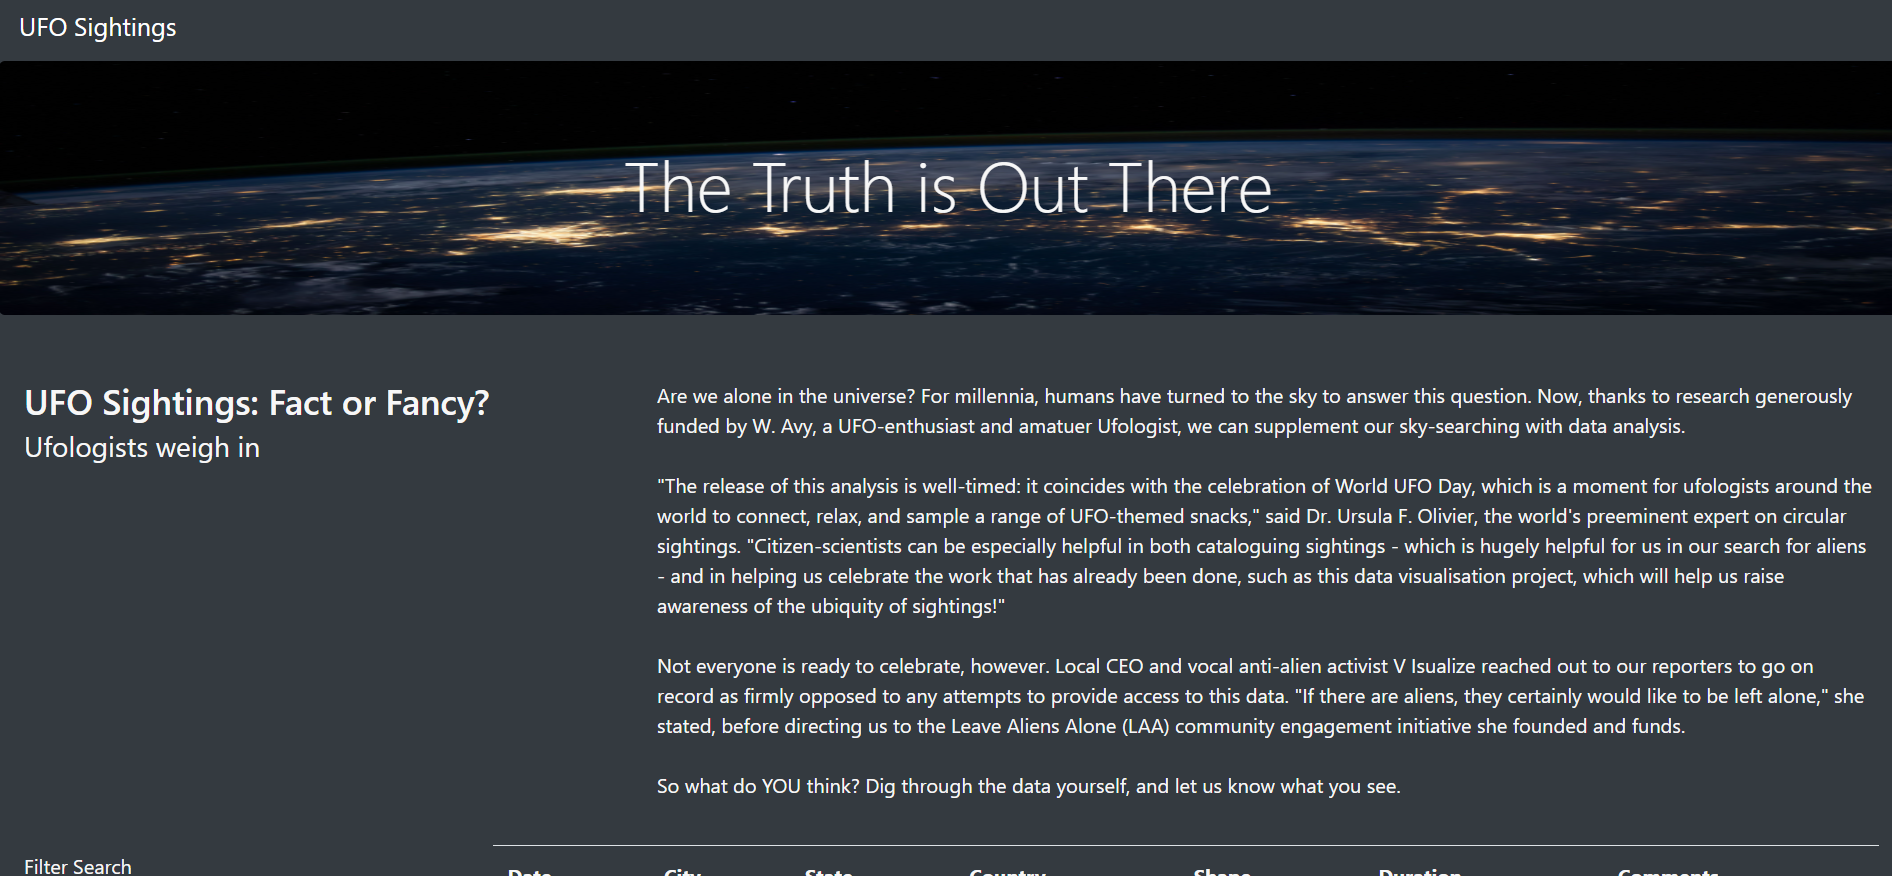
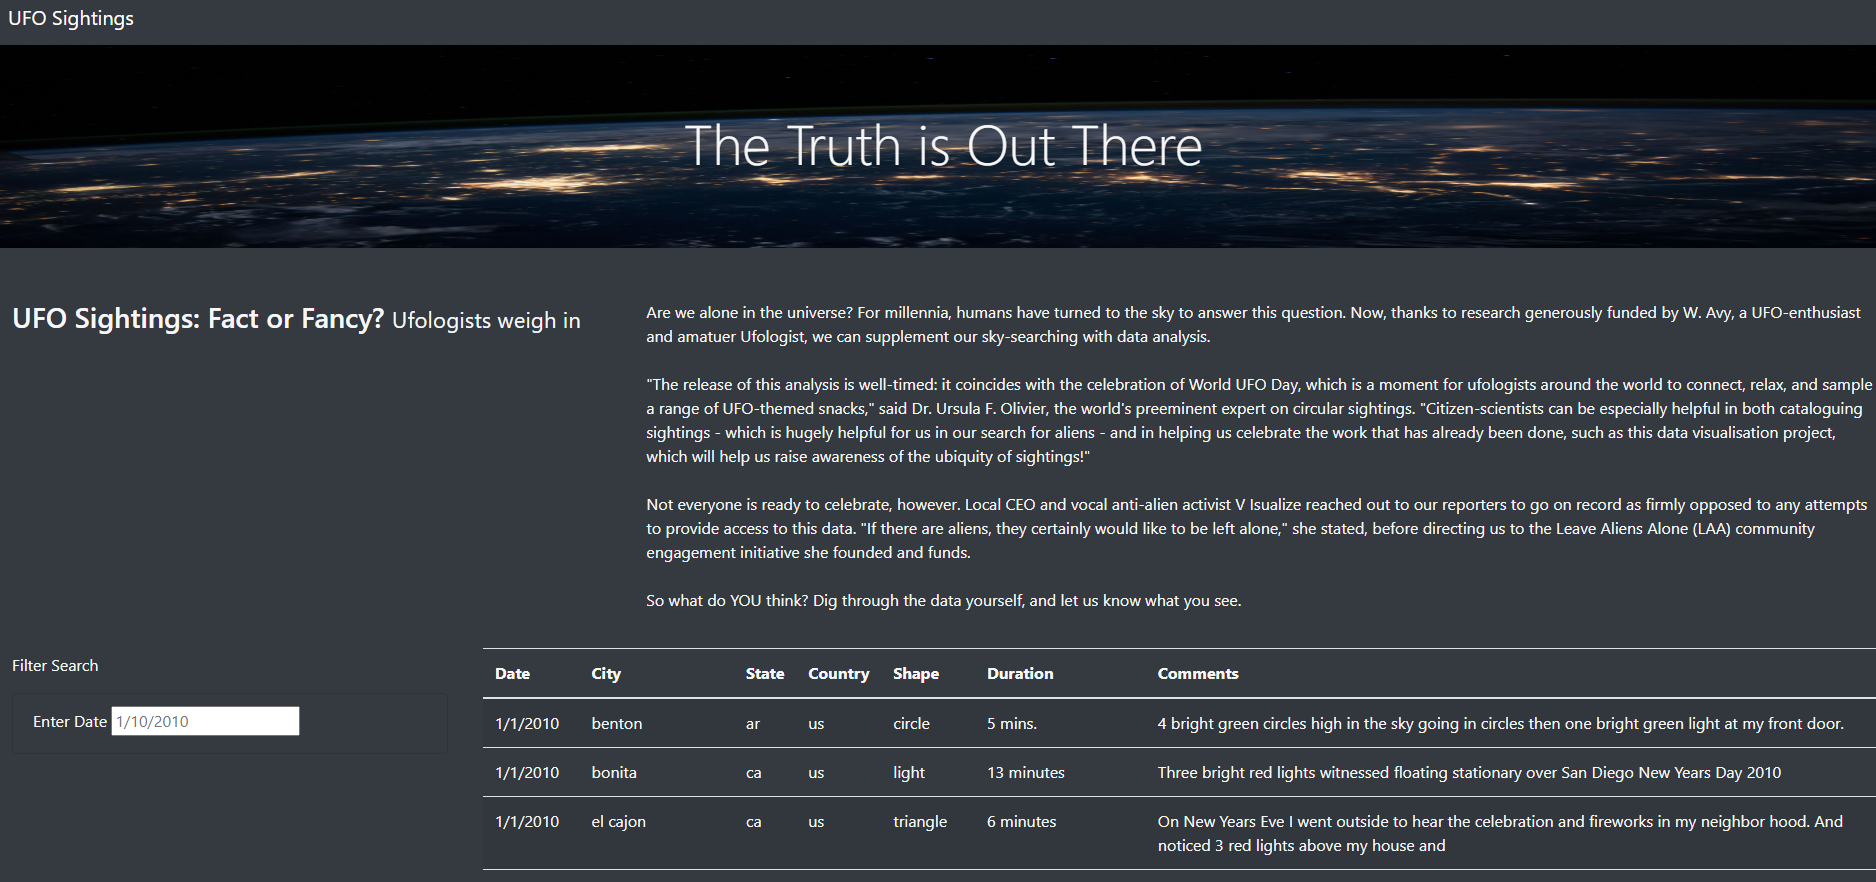
Add files via upload

diff --git a/web/static/js/app.js b/web/static/js/app.js
@@ -1,0 +1,78 @@
+// from data.js
+const tableData = data;
+
+// get table references
+var tbody = d3.select("tbody");
+
+function buildTable(data) {
+  // First, clear out any existing data
+  tbody.html("");
+
+  // Next, loop through each object in the data
+  // and append a row and cells for each value in the row
+  data.forEach((dataRow) => {
+    // Append a row to the table body
+    let row = tbody.append("tr");
+
+    // Loop through each field in the dataRow and add
+    // each value as a table cell (td)
+    Object.values(dataRow).forEach((val) => {
+      let cell = row.append("td");
+      cell.text(val);
+    });
+  });
+}
+
+// 1. Create a variable to keep track of all the filters as an object.
+ var filters = []
+
+// 3. Use this function to update the filters. 
+function updateFilters() {
+
+    // 4a. Save the element that was changed as a variable.
+    let changed_filter = d3.select(this)
+
+    // 4b. Save the value that was changed as a variable.
+    let value_filter = changed_filter.property("value")
+
+    // 4c. Save the id of the filter that was changed as a variable.
+    let filterId = changed_filter.attr("id")
+  
+    // 5. If a filter value was entered then add that filterId and value
+    // to the filters list. Otherwise, clear that filter from the filters object.
+    if (value_filter){
+      filters[filterId]= value_filter 
+    }
+    else {
+      delete filters [filterId]
+    }
+ 
+  
+    // 6. Call function to apply all filters and rebuild the table
+    filterTable();
+  
+  }
+  
+  // 7. Use this function to filter the table when data is entered.
+  function filterTable() {
+  
+    // 8. Set the filtered data to the tableData.
+    let filterdata = tableData
+    
+  
+    // 9. Loop through all of the filters and keep any data that
+    // matches the filter values
+    Object.entries(filters).forEach(([key,value]) => {      
+     filterdata = filterdata.filter(row => row[key] === value);    
+    });
+    
+  
+    // 10. Finally, rebuild the table using the filtered data
+   buildTable(filterdata); 
+  }
+  
+  // 2. Attach an event to listen for changes to each filter
+  d3.selectAll("input").on("change", updateFilters);
+  
+  // Build the table when the page loads
+  buildTable(tableData);
